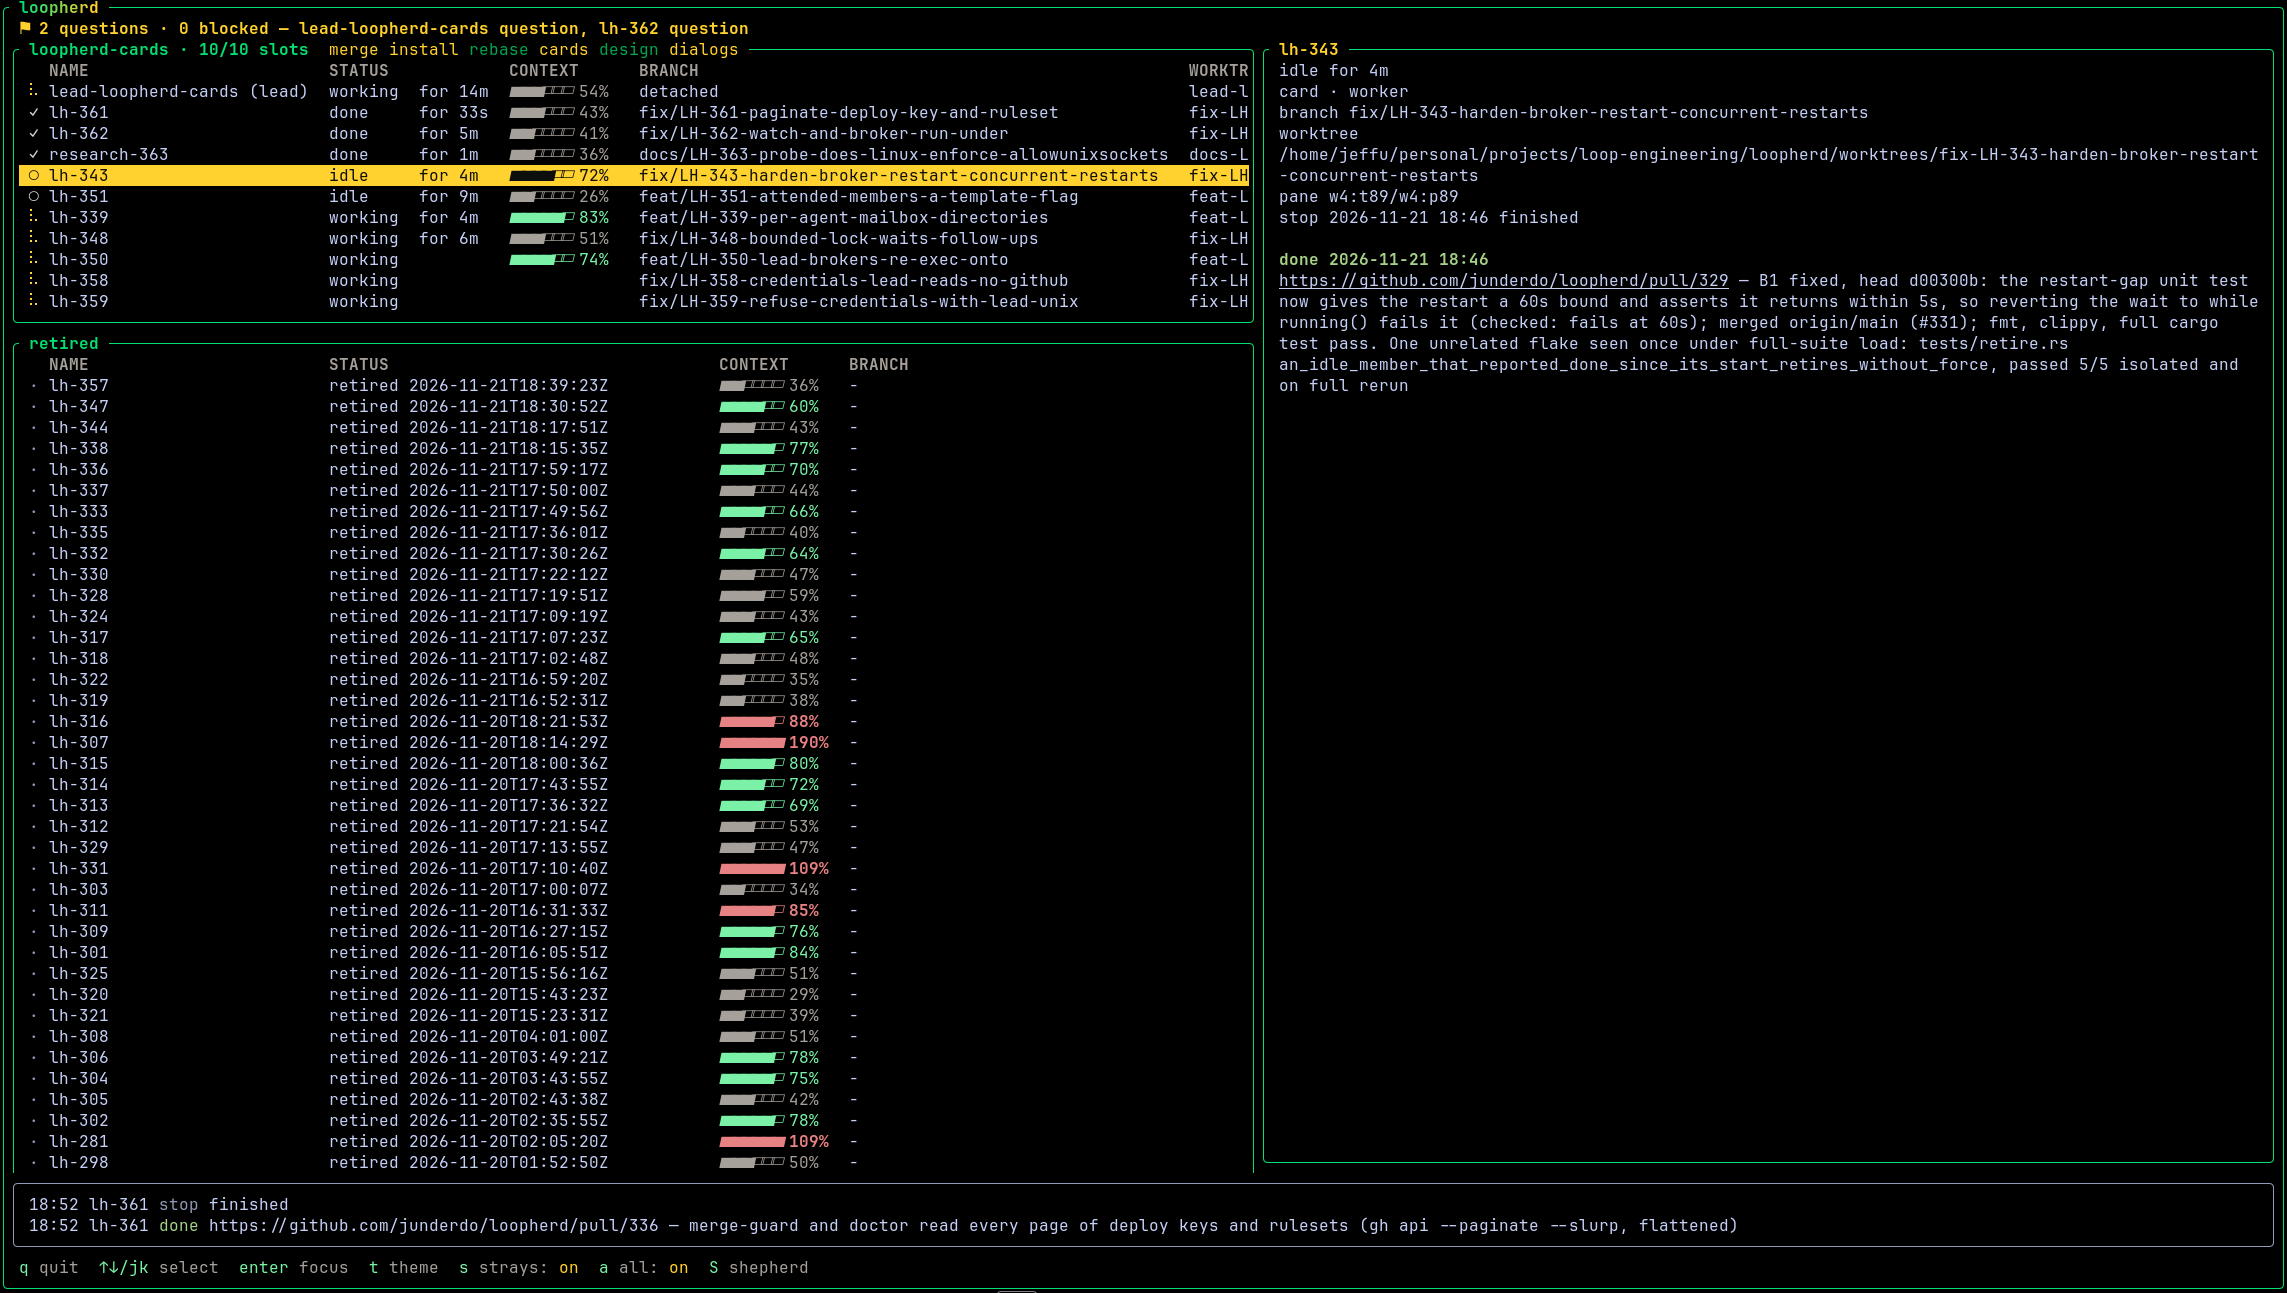
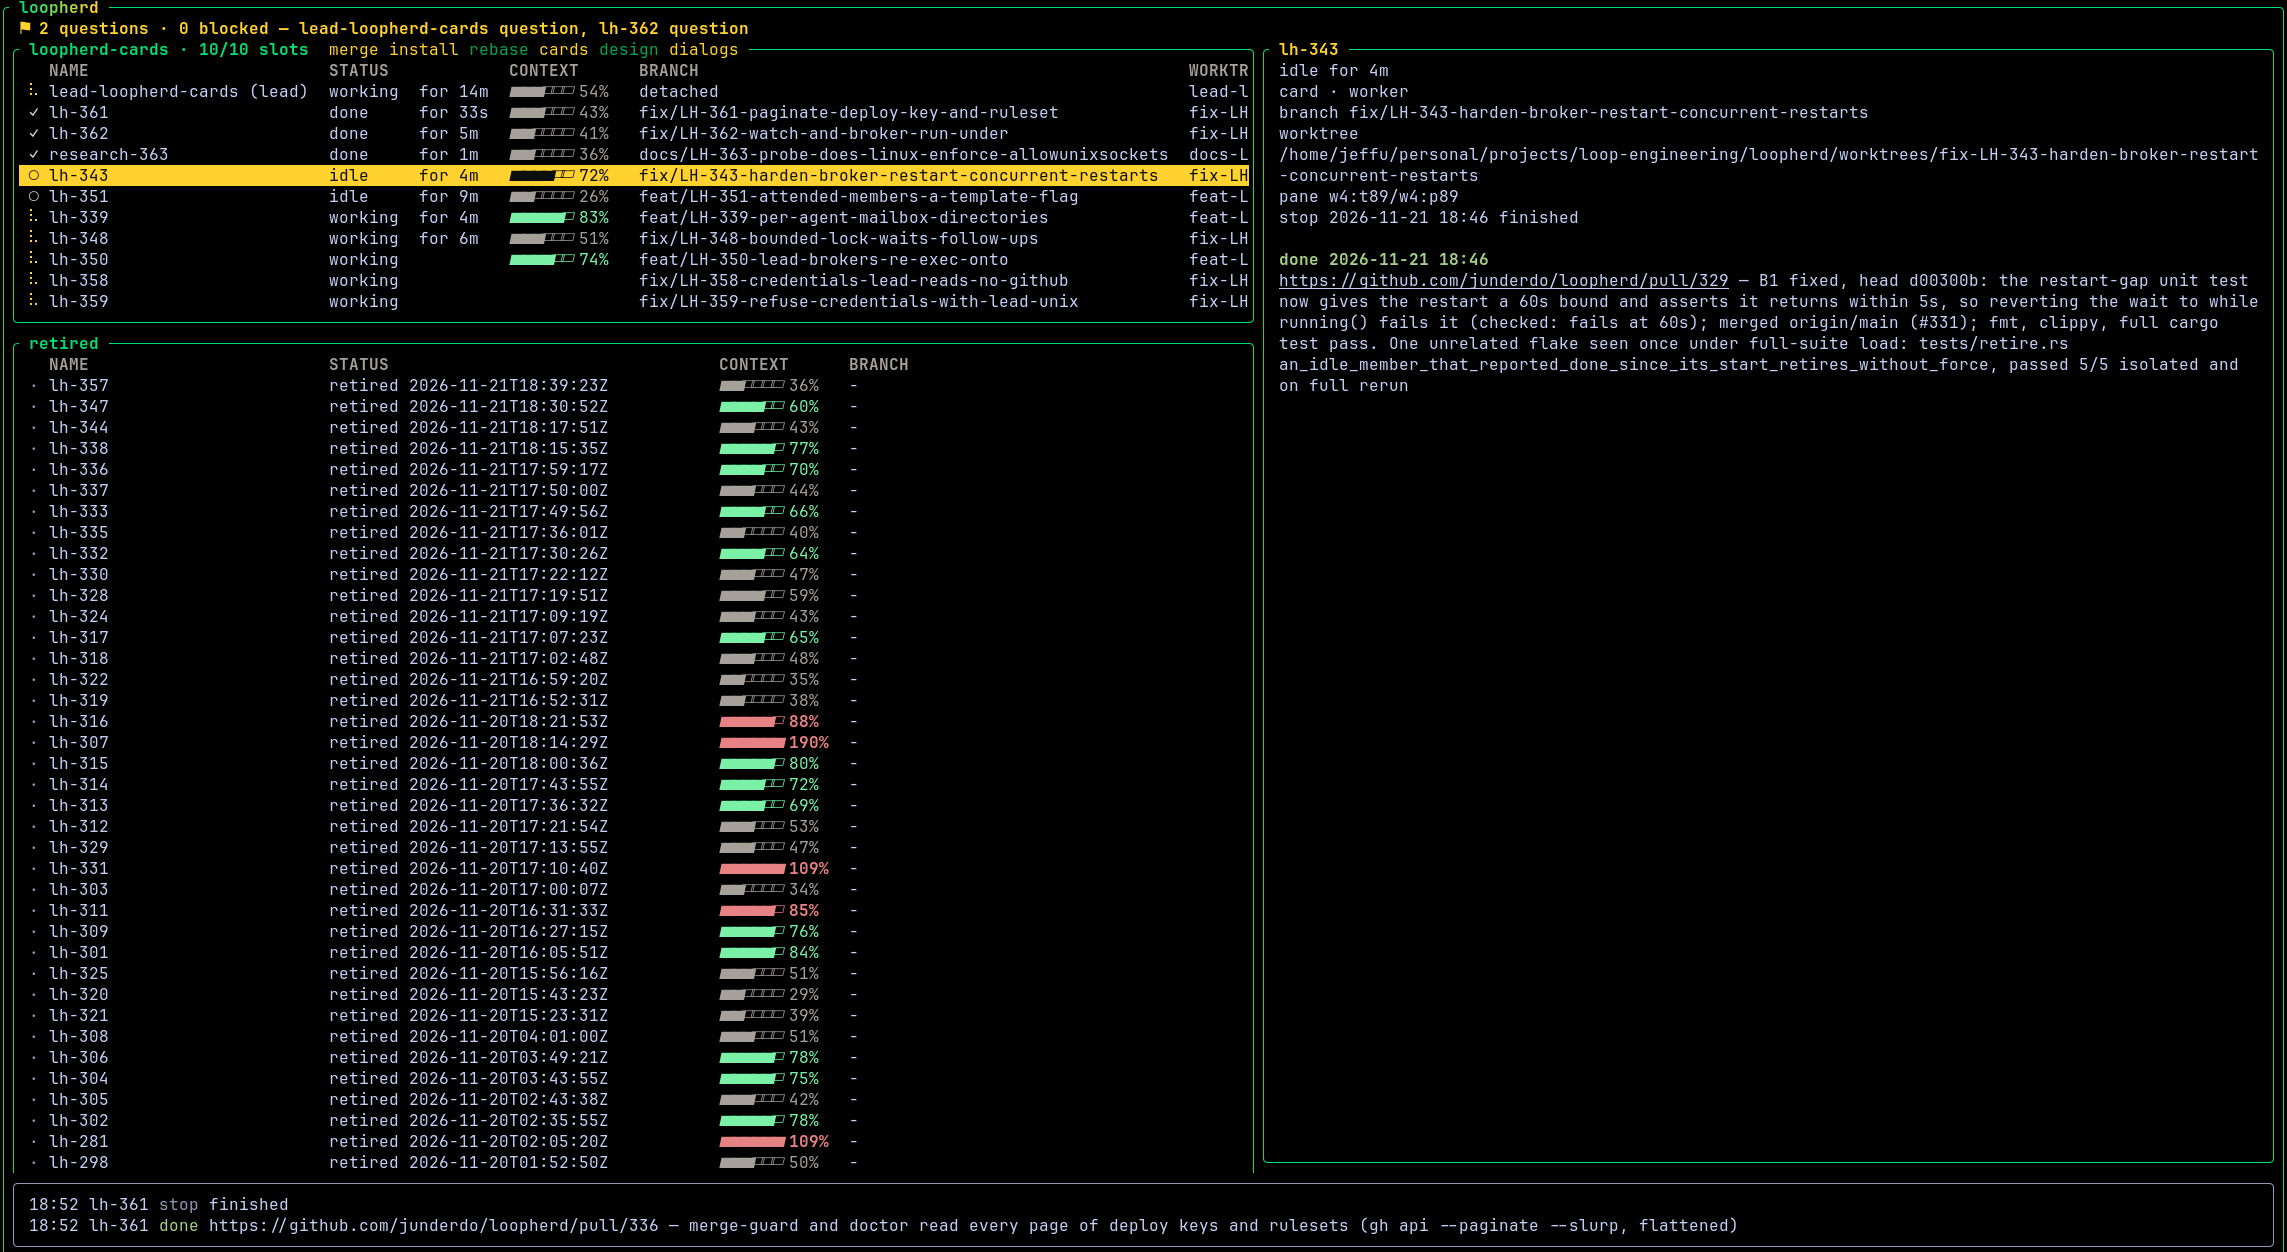
Document the option-free release installer and fix the front page's review points

Changed region(s): [[0.0, 0.0, 1.0, 1.0]]

diff --git a/docs/install.md b/docs/install.md
@@ -1,13 +1,13 @@
 # Installing loopherd
 
 The [README](../README.md#install) has the one-line install. This page has
-the rest: both install paths, their flags, updating, `loopherd setup`,
+the rest: both install paths, their extras, updating, `loopherd setup`,
 uninstalling, and loopherd's herdr plugin.
 
 ## Requirements
 
 - Linux or macOS, x86_64 or aarch64.
-- [herdr](https://herdr.dev/), running.
+- [herdr](https://herdr.dev/) 0.9.5 or later, running.
 - [Claude Code](https://code.claude.com/docs/en/overview) (`claude`).
 - On Linux and WSL2, leads also need [bubblewrap and
   socat](https://code.claude.com/docs/en/sandboxing#set-up-linux-and-wsl2)
@@ -32,27 +32,25 @@ It picks the build for your OS and arch and checks it against the
 release's `SHA256SUMS`. To pin a release:
 
 ```bash
-curl -fsSL https://junderdo.dev/loopherd/install.sh | LOOPHERD_VERSION=v0.2.0 sh
+curl -fsSL https://junderdo.dev/loopherd/install.sh | LOOPHERD_VERSION=v0.2.1 sh
 ```
 
 The junderdo.dev script fetches and runs the release's own installer, served
 as `https://github.com/junderdo/loopherd/releases/latest/download/install.sh`.
 
-Like `scripts/install`, the installer plays the splash and, asking on the
-terminal, offers the agent types, the `mattpocock-skills` plugin, the herdr
-plugin and its key bindings (each default no); without a terminal it skips
-each and names its flag. It takes `--no-splash` (or `LOOPHERD_NO_SPLASH=1`),
-`--with-agents`, `--with-skills`, `--with-herdr-plugin`, `--with-herdr-keys`
-and `--no-extras`, meaning what they mean to `scripts/install`. The
-junderdo.dev script passes on only `LOOPHERD_VERSION`, so give flags to the
-GitHub copy, after `sh -s --`:
+The installer takes no options. It plays the splash and asks on the
+terminal about each extra as it installs: loopherd's agent types, the
+`mattpocock-skills` plugin, the herdr plugin and its key bindings (each
+default no). With no terminal it installs loopherd and its hooks and skips
+the extras. Two environment variables reach it: `LOOPHERD_VERSION` pins a
+release, as above, and `LOOPHERD_NO_SPLASH=1` skips the splash:
 
 ```bash
-curl -fsSL https://github.com/junderdo/loopherd/releases/latest/download/install.sh | sh -s -- --no-splash --with-agents
+curl -fsSL https://junderdo.dev/loopherd/install.sh | LOOPHERD_NO_SPLASH=1 sh
 ```
 
-**Update:** `loopherd update` (`--check` to only look, `--version vX.Y.Z`
-to pick a release, older ones included).
+**Update:** `loopherd update`, from 0.2.1 on (`--check` to only look,
+`--version vX.Y.Z` to pick a release, older ones included).
 
 ## From source
 
@@ -68,9 +66,11 @@ scripts/install
 
 On a terminal it also offers loopherd's agent types (`builder`,
 `reviewer`, `researcher`, `scout`), the `mattpocock-skills` plugin and
-loopherd's herdr plugin (below), each default no. `--with-agents`,
-`--with-skills` and `--with-herdr-plugin` install one without asking;
-`scripts/install --help` lists its flags.
+loopherd's herdr plugin (below), each default no. Unlike the release
+installer, `scripts/install` takes flags for working on loopherd:
+`--with-agents`, `--with-skills` and `--with-herdr-plugin` install one
+without asking (naming an extra skips the other offers and setup), and
+`scripts/install --help` lists the rest.
 
 **Update:** `loopherd update` (`--check` to only look), or
 `git pull && scripts/install --update` by hand.
@@ -110,12 +110,13 @@ Agent types from `scripts/install` are yours to remove: the files listed in
 
 ## herdr plugin
 
-Optional, once loopherd is installed. Needs herdr 0.7.5 or later. A source
-install asks "Install loopherd's herdr plugin?" when herdr is on `PATH` and
-the plugin is missing or older than the checkout's, and `scripts/install
---with-herdr-plugin` installs or updates it without asking. Updating needs
-herdr 0.9.4; on an older herdr, or when an update leaves the version where
-it was, the installer prints the reinstall to run by hand. Or by hand:
+Optional, once loopherd is installed. Needs herdr 0.7.5 or later. The
+installer asks "Install loopherd's herdr plugin?" when herdr is on `PATH`
+and the plugin is missing or older than the one it ships, and from source
+`scripts/install --with-herdr-plugin` installs or updates it without
+asking. Updating needs herdr 0.9.4; on an older herdr, or when an update
+leaves the version where it was, the installer prints the reinstall to run
+by hand. Or by hand:
 
 ```bash
 herdr plugin install junderdo/loopherd/herdr-plugin
@@ -127,13 +128,14 @@ action, which opens `loopherd view` in a popup over most of the screen;
 
 ### Key bindings
 
-Once the plugin is installed, a source install asks "Add herdr key
-bindings for loopherd's plugin?", and `scripts/install --with-herdr-keys`
-(or `loopherd install-herdr-keys`) adds them without asking: `prefix+m`
-opens the view and `prefix+shift+m` opens it beside the shepherd. Both are
-unbound in herdr 0.9.5's defaults (`herdr --default-config`). It writes them
-as `[[keys.command]]` entries at the end of the `config.toml` herdr reads,
-after backing it up beside itself, and reloads a running server. A key your
+Once the plugin is installed, the installer asks "Add herdr key bindings
+for loopherd's plugin?", and `loopherd install-herdr-keys` (or, from
+source, `scripts/install --with-herdr-keys`) adds them without asking:
+`prefix+m` opens the view and `prefix+shift+m` opens it beside the
+shepherd. Both are unbound in herdr 0.9.5's defaults
+(`herdr --default-config`). It writes them as `[[keys.command]]` entries
+at the end of the `config.toml` herdr reads, after backing it up beside
+itself, and reloads a running server. A key your
 config or herdr's defaults already hold, or an action you already bound, is
 skipped with a line saying why. herdr's keybinds help (`prefix+?`) lists
 them under "custom" by their descriptions. `loopherd install-herdr-keys

diff --git a/README.md b/README.md
@@ -32,26 +32,26 @@ for yourself. The herds run themselves in between.
   context limit hands off to a fresh session.
 - **One view** of every member across repos, sorted by what needs you.
 
-### New since 0.2.0
+## New since 0.2.0
 
 - `loopherd update` updates a release or a source install in place.
-- The release installer offers what `scripts/install` does: agent types, the
-  `mattpocock-skills` plugin, the herdr plugin and its key bindings.
+- The release installer asks about each extra as it installs: agent types,
+  the `mattpocock-skills` plugin, the herdr plugin and its key bindings.
 - The view lists each member's running subagents, and `view.layout` (or
   `v` in the view) puts the shepherd beside it or below it.
 - The context window comes from each session's model; limits take `250k`
   or `65%`.
 - herdr's startup hook always starts alive leads' brokers; `setup` asks
   whether it should also revive members.
-- `loopherd gate <sha>` runs a herd's checks for its sandboxed lead,
-  outside the sandbox.
+- `loopherd gate <sha>` runs the herd's `[lead] gate` commands for its
+  sandboxed lead, outside the sandbox.
 - `watch` says when a member has stalled: idle after a paused stop for
   `stalled_after` minutes (30 by default).
 
 ## Requirements
 
 - Linux or macOS, x86_64 or aarch64.
-- [herdr](https://herdr.dev/), running.
+- [herdr](https://herdr.dev/) 0.9.5 or later, running.
 - [Claude Code](https://code.claude.com/docs/en/overview) (`claude`).
 - On Linux and WSL2, leads also need [bubblewrap and
   socat](https://code.claude.com/docs/en/sandboxing#set-up-linux-and-wsl2)
@@ -66,8 +66,11 @@ curl -fsSL https://junderdo.dev/loopherd/install.sh | sh
 It installs the latest release as `~/.local/bin/loopherd` (put
 `~/.local/bin` on `PATH`), adds loopherd's Claude hooks and skill (backing
 up `settings.json` first), runs `loopherd setup`, and finishes with
-`loopherd doctor`. Pin a release with `LOOPHERD_VERSION=v0.2.0` in front of
-`sh`. Update with `loopherd update`.
+`loopherd doctor`. It takes no options: it asks about each extra (agent
+types, skills, the herdr plugin, herdr key bindings) as it installs, and
+with no terminal it installs loopherd and its hooks and skips the extras.
+Pin a release with `LOOPHERD_VERSION=v0.2.1` in front of `sh`. Update with
+`loopherd update` (0.2.1 or later).
 
 From source (needs `git`, [Rust](https://rustup.rs/) and
 [`jq`](https://jqlang.github.io/jq/download/)):
@@ -77,8 +80,9 @@ git clone https://github.com/junderdo/loopherd.git && cd loopherd && scripts/ins
 ```
 
 To uninstall: `loopherd install-hook --remove` and
-`rm ~/.local/bin/loopherd`. Installer flags, the optional herdr plugin and
-its key bindings, and the rest are in [docs/install.md](docs/install.md).
+`rm ~/.local/bin/loopherd`. The installer's extras, the optional herdr
+plugin and its key bindings, and the rest are in
+[docs/install.md](docs/install.md).
 
 ## A first herd
 
@@ -88,7 +92,7 @@ With herdr running, in a repo's main checkout:
 cd ~/code/my-app && claude        # accept the trust dialog once, then exit
 loopherd init                     # write the herd; it asks for what it can't infer
 loopherd feed my-app --dry-run    # list the tasks you expect
-loopherd view                     # in a herdr pane; press s to start your shepherd
+loopherd view                     # in a new herdr tab; press s to start your shepherd
 loopherd lead my-app              # start the lead, which feeds and watches the herd
 ```
 
@@ -99,7 +103,7 @@ checks the herd file. Run `loopherd lead` yourself, or ask the shepherd to.
 **When you're unsure how to do something, ask your shepherd.** The shepherd
 is the Claude session you work in beside the herd. `s` in `loopherd view`
 focuses it, or starts one beside the view when there's none; with the herdr
-plugin, `prefix+shift+m` opens the view beside it. It reads loopherd's guide
+plugin's key bindings, `prefix+shift+m` opens the view beside it. It reads loopherd's guide
 (`loopherd --skill`), so ask it things like "how do I pause a herd?" or "why
 didn't feed spawn anything?", and it can run the commands for you.
 
@@ -109,7 +113,7 @@ by hand.
 
 ## Where to go next
 
-- [docs/install.md](docs/install.md): install paths and flags, updating,
+- [docs/install.md](docs/install.md): install paths and extras, updating,
   `setup`, uninstalling, the herdr plugin.
 - [docs/setup.md](docs/setup.md): setting up a repo, the lead's sandbox,
   hand-written herd files.

diff --git a/docs/setup.md b/docs/setup.md
@@ -26,8 +26,8 @@ cloned as its main checkout. Then, in order:
    the shepherd between side by side and stacked, saving it as
    `view.layout`, and `t` switches between its purple-orange, phosphor and
    catppuccin themes, remembering the choice as `view.theme` in
-   `config.toml`; `x` shows or hides strays. The detail panel sits beside the list while it fits, and
-   under the selected member otherwise.
+   `config.toml`; `x` shows or hides strays. The detail panel sits beside
+   the list while it fits, and under the selected member's table otherwise.
 5. **Start the shepherd.** Press `s` in the view, run in a pane rather
    than the plugin's popup, to start it beside the view, in the view's
    directory (a plugin pane's workspace directory, not the plugin's). Or in
